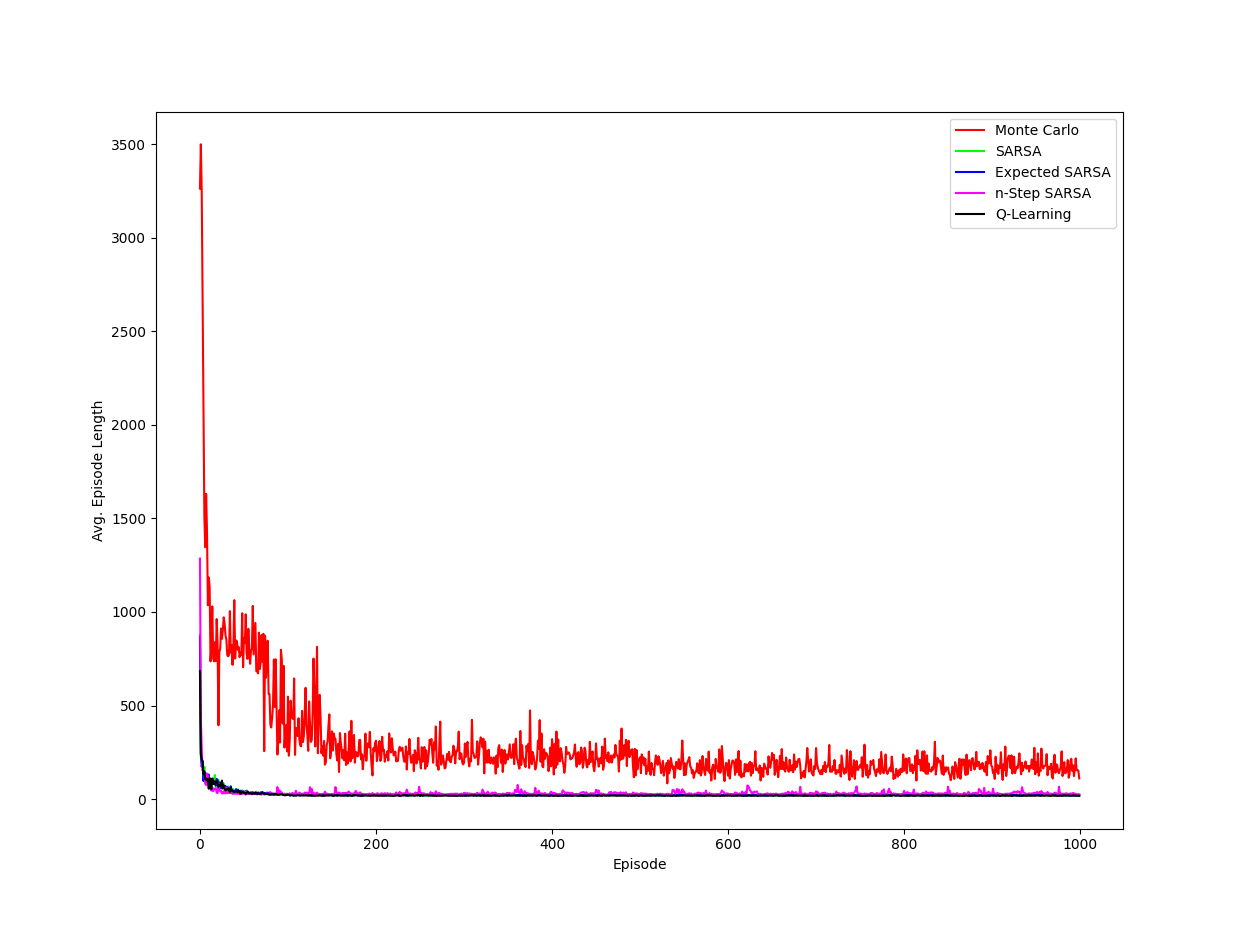
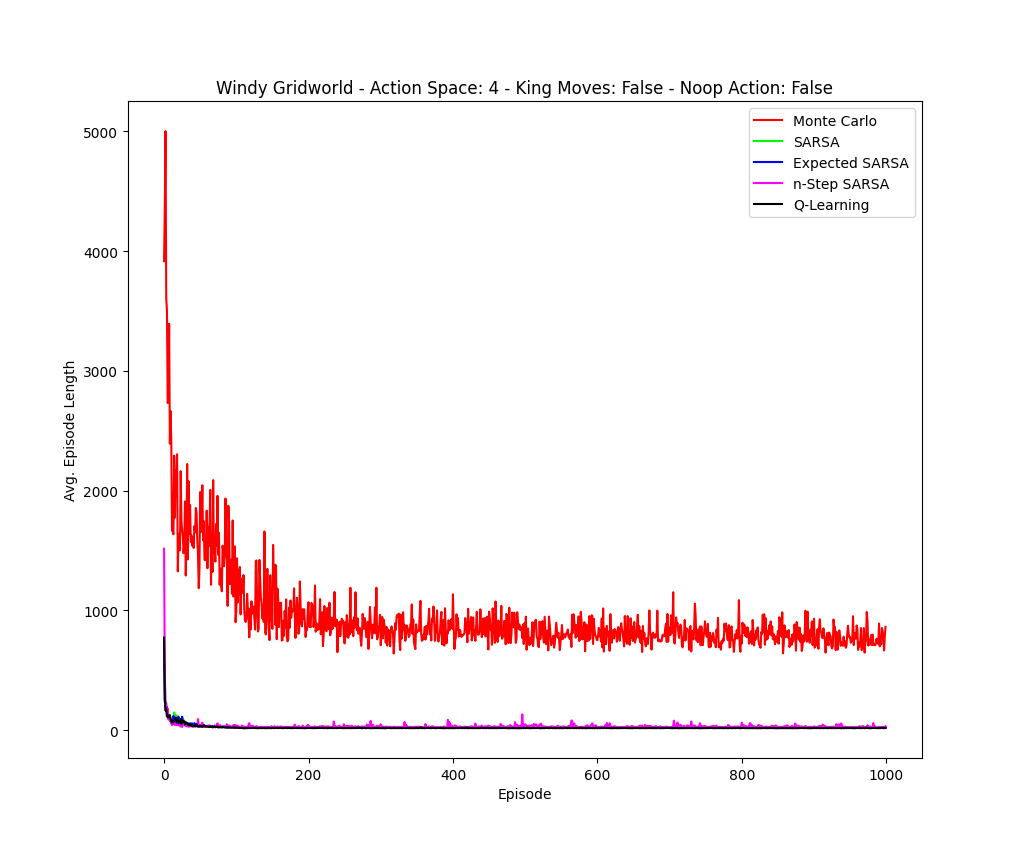
ran 4c

diff --git a/code/src/temporal_difference/run_windy_gridworld.py b/code/src/temporal_difference/run_windy_gridworld.py
@@ -8,8 +8,9 @@ Executable for running MC and TD algorithms on Windy Gridworld
 from typing import Tuple
 import numpy as np
 import matplotlib.pyplot as plt
+import argparse
 from tqdm import trange
-from lib.temporal_difference.algorithms import q_learning
+
 
 from lib.temporal_difference.windy_gridworld import (
     n_step_sarsa_windy_gridworld,
@@ -27,7 +28,7 @@ N_TRIALS = 10
 N_STEPS = 4
 
 
-def plot_returns(all_returns: np.ndarray) -> None:
+def plot_returns(all_returns: np.ndarray, title: str) -> None:
     for label, color, returns in all_returns:
         avg_ret = np.average(returns, axis=0)
         plt.plot(avg_ret, color=color, label=label)
@@ -44,61 +45,55 @@ def plot_returns(all_returns: np.ndarray) -> None:
     
     plt.ylabel('Avg. Return')
     plt.xlabel('Episode')
+    plt.title(title)
     plt.legend()
     plt.show()
 
-def plot_episode_lengths(all_episode_lengths: np.ndarray) -> None:
+def plot_episode_lengths(all_episode_lengths: np.ndarray, title: str) -> None:
     for label, color, episode_lengths in all_episode_lengths:
         avg_ret = np.average(episode_lengths, axis=0)
         plt.plot(avg_ret, color=color, label=label)
     plt.ylabel('Avg. Episode Length')
     plt.xlabel('Episode')
+    plt.title(title)
     plt.legend()
     plt.show()
 
 
-def run_monte_carlo_control():
-    wind_grid = windy_gridworld_1()
-    env = WindyGridworld(wind_grid)
-    returns = monte_carlo_windy_gridworld(
+def run_monte_carlo_control(env: WindyGridworld):
+    returns, episode_lengths = monte_carlo_windy_gridworld(
         env,
         N_TRIALS,
         N_EPISODES,
         GAMMA,
         EPS)
-    return returns
+    return returns, episode_lengths
 
 
-def run_sarsa() -> np.ndarray:
-    wind_grid = windy_gridworld_1()
-    env = WindyGridworld(wind_grid)
-    returns = sarsa_windy_gridworld(
+def run_sarsa(env: WindyGridworld) -> Tuple[np.ndarray, np.ndarray]:
+    returns, episode_lengths = sarsa_windy_gridworld(
         env,
         N_TRIALS,
         N_EPISODES,
         GAMMA,
         EPS,
         ALPHA)
-    return returns
+    return returns, episode_lengths
 
 
-def run_expected_sarsa() -> np.ndarray:
-    wind_grid = windy_gridworld_1()
-    env = WindyGridworld(wind_grid)
-    returns = sarsa_windy_gridworld(
+def run_expected_sarsa(env: WindyGridworld) -> Tuple[np.ndarray, np.ndarray]:
+    returns, episode_lengths = sarsa_windy_gridworld(
         env,
         N_TRIALS,
         N_EPISODES,
         GAMMA,
         EPS,
         ALPHA)
-    return returns
+    return returns, episode_lengths
 
 
-def run_n_step_sarsa() -> np.ndarray:
-    wind_grid = windy_gridworld_1()
-    env = WindyGridworld(wind_grid)
-    returns = n_step_sarsa_windy_gridworld(
+def run_n_step_sarsa(env: WindyGridworld) -> Tuple[np.ndarray, np.ndarray]:
+    returns, episode_lengths = n_step_sarsa_windy_gridworld(
         env,
         N_STEPS,
         N_TRIALS,
@@ -106,23 +101,21 @@ def run_n_step_sarsa() -> np.ndarray:
         GAMMA,
         EPS,
         ALPHA)
-    return returns
+    return returns, episode_lengths
 
 
-def run_q_learning() -> np.ndarray:
-    wind_grid = windy_gridworld_1()
-    env = WindyGridworld(wind_grid)
-    returns = q_learning_windy_gridworld(
+def run_q_learning(env: WindyGridworld) -> Tuple[np.ndarray, np.ndarray]:
+    returns, episode_lengths = q_learning_windy_gridworld(
         env,
         N_TRIALS,
         N_EPISODES,
         GAMMA,
         EPS,
         ALPHA)
-    return returns
+    return returns, episode_lengths
 
 
-def main():
+def run_experiment(env: WindyGridworld) -> Tuple[np.ndarray, np.ndarray]:
     algorithms = [
         ('Monte Carlo', run_monte_carlo_control, (1., .0, .0)),
         ('SARSA', run_sarsa, (.0, 1., .0)),
@@ -136,11 +129,55 @@ def main():
     for a in tranges:
         label, algorithm, color = algorithms[a]
         tranges.set_description(f'Algorithm: {label}')
-        returns, episode_lengths = algorithm()
+        returns, episode_lengths = algorithm(env)
         algo_returns.append((label, color, returns))
         algo_episode_lengths.append((label, color, episode_lengths))
-    plot_returns(algo_returns)
-    plot_episode_lengths(algo_episode_lengths)
+    return algo_returns, algo_episode_lengths
+
+
+def main():
+    parser = argparse.ArgumentParser('Run a bandit testsuite')
+    parser.add_argument(
+        '--king-moves', help='Enable king moves', action='store_true')
+    parser.add_argument(
+        '--noop-action', help='Enable noop action', action='store_true')
+    parser.add_argument(
+        '--run-all', help='Run all experiments', action='store_true')
+    parser.add_argument(
+        '--max-t', help='Max episode timesteps', type=int, default=5000)
+    args = parser.parse_args()
+
+    if args.run_all:
+        experiments = [
+            (False, False, 5000),
+            (True, False, 5000),
+            (True, True, 5000),
+        ]
+
+        all_returns = []
+        all_episode_lengths = []
+        experiment_titles = []
+        for king_moves, noop_action, max_t in experiments:
+            wind_grid = windy_gridworld_1()
+            env = WindyGridworld(wind_grid, king_moves, noop_action, max_t)
+            experiment_titles.append(env.to_string())
+            algo_returns, algo_episode_lengths = run_experiment(env)
+            all_returns.append(algo_returns)
+            all_episode_lengths.append(algo_episode_lengths)
+        
+        for returns, episode_lengths, title in zip(all_returns, all_episode_lengths, experiment_titles):
+            plot_returns(returns, title)
+            plot_episode_lengths(episode_lengths, title)
+        
+        exit()
+    else:
+        wind_grid = windy_gridworld_1()
+        env = WindyGridworld(wind_grid, args.king_moves, args.noop_action, args.max_t)
+        algo_returns, algo_episode_lengths = run_experiment(env)
+        plot_returns(returns, env.to_string())
+        plot_episode_lengths(episode_lengths, env.to_string())
+        exit()
+
 
 if __name__ == '__main__':
     main()

diff --git a/code/lib/temporal_difference/windy_gridworld.py b/code/lib/temporal_difference/windy_gridworld.py
@@ -13,33 +13,59 @@ from tqdm import trange
 from lib.monte_carlo.algorithms import on_policy_mc_control_epsilon_soft
 from lib.temporal_difference.algorithms import expected_sarsa, n_step_sarsa, q_learning, sarsa
 
-class Action(IntEnum):
+
+class GridworldAction(IntEnum):
     UP = 0
     RIGHT = 1
     DOWN = 2
     LEFT = 3
+    UP_RIGHT = 4
+    UP_LEFT = 5
+    DOWN_RIGHT = 6
+    DOWN_LEFT = 7
+    NOOP = 8
+
 
 class WindyGridworld(Env):
     GOAL = 1
 
-    def __init__(self, wind_grid: np.ndarray, max_t: int = 5000) -> None:
+    def __init__(
+            self,
+            wind_grid: np.ndarray,
+            king_moves: bool = False,
+            noop_action: bool = False,
+            max_t: int = 5000) -> None:
         super().__init__()
         self.wind_grid = wind_grid
         self.pos = (0, 0)
         self.t = 0
         self.max_t = max_t
-        self.action_space = spaces.Discrete(4)
+        self.king_moves = king_moves
+        self.noop_action = noop_action
+        self.action_space = spaces.Discrete(4 + (5 if king_moves and noop_action else (4 if king_moves else 0)))
         self.observation_space = spaces.Tuple([
             spaces.Discrete(self.wind_grid.shape[0]),
             spaces.Discrete(self.wind_grid.shape[1])
         ])
+        print(self.to_string())
 
-    def action_to_dydx(self, action: Action) -> Tuple[int, int]:
+    def to_string(self) -> str:
+        return f'Windy Gridworld - ' \
+            + f'Action Space: {self.action_space.n} - ' \
+            + f'King Moves: {str(self.king_moves)} - ' \
+            + f'Noop Action: {str(self.noop_action)}'
+
+    def action_to_dydx(self, action: GridworldAction) -> Tuple[int, int]:
         action_map = {
-            Action.UP: (-1, 0),
-            Action.RIGHT: (0, 1),
-            Action.DOWN: (1, 0),
-            Action.LEFT: (0, -1)
+            GridworldAction.UP: (-1, 0),
+            GridworldAction.RIGHT: (0, 1),
+            GridworldAction.DOWN: (1, 0),
+            GridworldAction.LEFT: (0, -1),
+            GridworldAction.UP_RIGHT: (-1, 1),
+            GridworldAction.UP_LEFT: (-1, -1),
+            GridworldAction.DOWN_RIGHT: (1, 1),
+            GridworldAction.DOWN_LEFT: (1, -1),
+            GridworldAction.NOOP: (0, 0)
         }
         return action_map[action]
 
@@ -55,8 +81,8 @@ class WindyGridworld(Env):
             x = self.wind_grid.shape[1] - 1
         return (y, x)
 
-    def take_action(self, pos: Tuple[int, int], action: Action) -> Tuple[int, int]:
-        dy, dx = self.action_to_dydx(Action(action))
+    def take_action(self, pos: Tuple[int, int], action: GridworldAction) -> Tuple[int, int]:
+        dy, dx = self.action_to_dydx(GridworldAction(action))
         pos = (pos[0] + dy, pos[1] + dx)
         pos = self.clamp_pos(pos)
         return pos
